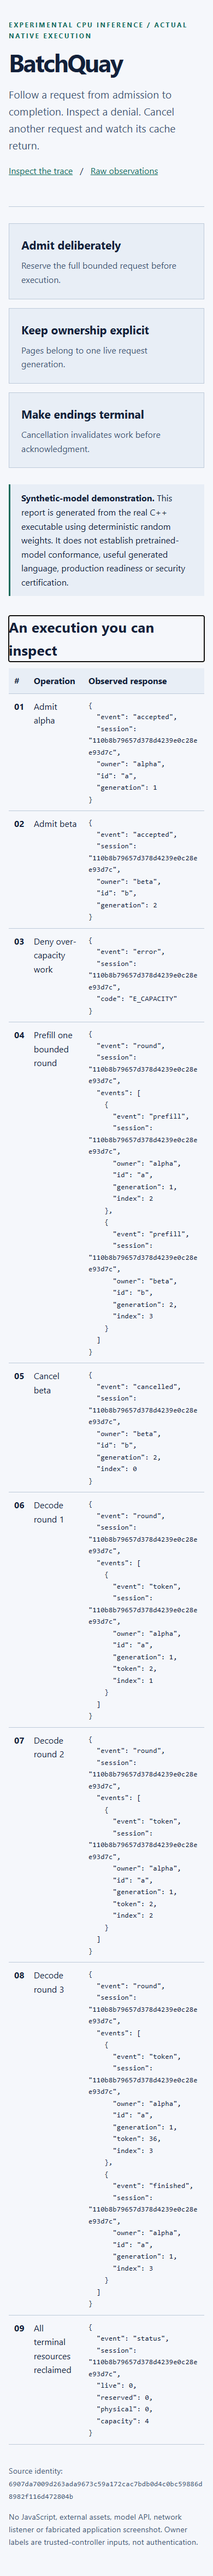
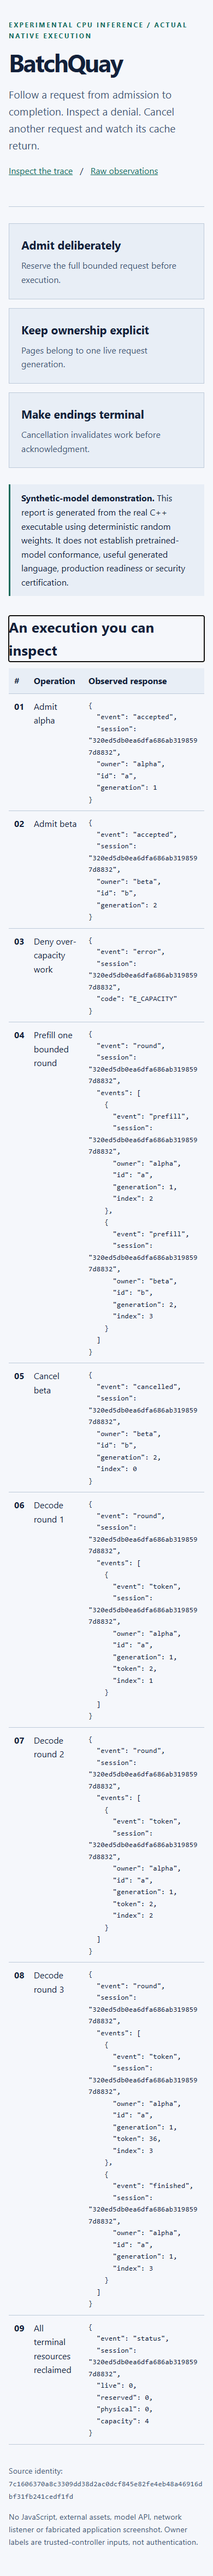
Correct operating prerequisites and current status navigation

Changed region(s): [[0.4923, 0.6871, 0.5231, 0.7183]]

diff --git a/docs/demo/report.html b/docs/demo/report.html
@@ -27,27 +27,27 @@ footer{margin-top:36px;color:var(--muted);font-size:.9rem}.skip{position:absolut
 <p class="notice"><strong>Synthetic-model demonstration.</strong> This report is generated from the real C++ executable using deterministic random weights. It does not establish pretrained-model conformance, useful generated language, production readiness or security certification.</p>
 <h2 id="trace" tabindex="-1">An execution you can inspect</h2><table><thead><tr><th scope="col">#</th><th scope="col">Operation</th><th scope="col">Observed response</th></tr></thead><tbody><tr><th scope="row">01</th><td>Admit alpha</td><td><pre>{
   &quot;event&quot;: &quot;accepted&quot;,
-  &quot;session&quot;: &quot;110b8b79657d378d4239e0c28ee93d7c&quot;,
+  &quot;session&quot;: &quot;320ed5db0ea6dfa686ab3198597d8832&quot;,
   &quot;owner&quot;: &quot;alpha&quot;,
   &quot;id&quot;: &quot;a&quot;,
   &quot;generation&quot;: 1
 }</pre></td></tr><tr><th scope="row">02</th><td>Admit beta</td><td><pre>{
   &quot;event&quot;: &quot;accepted&quot;,
-  &quot;session&quot;: &quot;110b8b79657d378d4239e0c28ee93d7c&quot;,
+  &quot;session&quot;: &quot;320ed5db0ea6dfa686ab3198597d8832&quot;,
   &quot;owner&quot;: &quot;beta&quot;,
   &quot;id&quot;: &quot;b&quot;,
   &quot;generation&quot;: 2
 }</pre></td></tr><tr><th scope="row">03</th><td>Deny over-capacity work</td><td><pre>{
   &quot;event&quot;: &quot;error&quot;,
-  &quot;session&quot;: &quot;110b8b79657d378d4239e0c28ee93d7c&quot;,
+  &quot;session&quot;: &quot;320ed5db0ea6dfa686ab3198597d8832&quot;,
   &quot;code&quot;: &quot;E_CAPACITY&quot;
 }</pre></td></tr><tr><th scope="row">04</th><td>Prefill one bounded round</td><td><pre>{
   &quot;event&quot;: &quot;round&quot;,
-  &quot;session&quot;: &quot;110b8b79657d378d4239e0c28ee93d7c&quot;,
+  &quot;session&quot;: &quot;320ed5db0ea6dfa686ab3198597d8832&quot;,
   &quot;events&quot;: [
     {
       &quot;event&quot;: &quot;prefill&quot;,
-      &quot;session&quot;: &quot;110b8b79657d378d4239e0c28ee93d7c&quot;,
+      &quot;session&quot;: &quot;320ed5db0ea6dfa686ab3198597d8832&quot;,
       &quot;owner&quot;: &quot;alpha&quot;,
       &quot;id&quot;: &quot;a&quot;,
       &quot;generation&quot;: 1,
@@ -55,7 +55,7 @@ footer{margin-top:36px;color:var(--muted);font-size:.9rem}.skip{position:absolut
     },
     {
       &quot;event&quot;: &quot;prefill&quot;,
-      &quot;session&quot;: &quot;110b8b79657d378d4239e0c28ee93d7c&quot;,
+      &quot;session&quot;: &quot;320ed5db0ea6dfa686ab3198597d8832&quot;,
       &quot;owner&quot;: &quot;beta&quot;,
       &quot;id&quot;: &quot;b&quot;,
       &quot;generation&quot;: 2,
@@ -64,18 +64,18 @@ footer{margin-top:36px;color:var(--muted);font-size:.9rem}.skip{position:absolut
   ]
 }</pre></td></tr><tr><th scope="row">05</th><td>Cancel beta</td><td><pre>{
   &quot;event&quot;: &quot;cancelled&quot;,
-  &quot;session&quot;: &quot;110b8b79657d378d4239e0c28ee93d7c&quot;,
+  &quot;session&quot;: &quot;320ed5db0ea6dfa686ab3198597d8832&quot;,
   &quot;owner&quot;: &quot;beta&quot;,
   &quot;id&quot;: &quot;b&quot;,
   &quot;generation&quot;: 2,
   &quot;index&quot;: 0
 }</pre></td></tr><tr><th scope="row">06</th><td>Decode round 1</td><td><pre>{
   &quot;event&quot;: &quot;round&quot;,
-  &quot;session&quot;: &quot;110b8b79657d378d4239e0c28ee93d7c&quot;,
+  &quot;session&quot;: &quot;320ed5db0ea6dfa686ab3198597d8832&quot;,
   &quot;events&quot;: [
     {
       &quot;event&quot;: &quot;token&quot;,
-      &quot;session&quot;: &quot;110b8b79657d378d4239e0c28ee93d7c&quot;,
+      &quot;session&quot;: &quot;320ed5db0ea6dfa686ab3198597d8832&quot;,
       &quot;owner&quot;: &quot;alpha&quot;,
       &quot;id&quot;: &quot;a&quot;,
       &quot;generation&quot;: 1,
@@ -85,11 +85,11 @@ footer{margin-top:36px;color:var(--muted);font-size:.9rem}.skip{position:absolut
   ]
 }</pre></td></tr><tr><th scope="row">07</th><td>Decode round 2</td><td><pre>{
   &quot;event&quot;: &quot;round&quot;,
-  &quot;session&quot;: &quot;110b8b79657d378d4239e0c28ee93d7c&quot;,
+  &quot;session&quot;: &quot;320ed5db0ea6dfa686ab3198597d8832&quot;,
   &quot;events&quot;: [
     {
       &quot;event&quot;: &quot;token&quot;,
-      &quot;session&quot;: &quot;110b8b79657d378d4239e0c28ee93d7c&quot;,
+      &quot;session&quot;: &quot;320ed5db0ea6dfa686ab3198597d8832&quot;,
       &quot;owner&quot;: &quot;alpha&quot;,
       &quot;id&quot;: &quot;a&quot;,
       &quot;generation&quot;: 1,
@@ -99,11 +99,11 @@ footer{margin-top:36px;color:var(--muted);font-size:.9rem}.skip{position:absolut
   ]
 }</pre></td></tr><tr><th scope="row">08</th><td>Decode round 3</td><td><pre>{
   &quot;event&quot;: &quot;round&quot;,
-  &quot;session&quot;: &quot;110b8b79657d378d4239e0c28ee93d7c&quot;,
+  &quot;session&quot;: &quot;320ed5db0ea6dfa686ab3198597d8832&quot;,
   &quot;events&quot;: [
     {
       &quot;event&quot;: &quot;token&quot;,
-      &quot;session&quot;: &quot;110b8b79657d378d4239e0c28ee93d7c&quot;,
+      &quot;session&quot;: &quot;320ed5db0ea6dfa686ab3198597d8832&quot;,
       &quot;owner&quot;: &quot;alpha&quot;,
       &quot;id&quot;: &quot;a&quot;,
       &quot;generation&quot;: 1,
@@ -112,7 +112,7 @@ footer{margin-top:36px;color:var(--muted);font-size:.9rem}.skip{position:absolut
     },
     {
       &quot;event&quot;: &quot;finished&quot;,
-      &quot;session&quot;: &quot;110b8b79657d378d4239e0c28ee93d7c&quot;,
+      &quot;session&quot;: &quot;320ed5db0ea6dfa686ab3198597d8832&quot;,
       &quot;owner&quot;: &quot;alpha&quot;,
       &quot;id&quot;: &quot;a&quot;,
       &quot;generation&quot;: 1,
@@ -121,10 +121,10 @@ footer{margin-top:36px;color:var(--muted);font-size:.9rem}.skip{position:absolut
   ]
 }</pre></td></tr><tr><th scope="row">09</th><td>All terminal resources reclaimed</td><td><pre>{
   &quot;event&quot;: &quot;status&quot;,
-  &quot;session&quot;: &quot;110b8b79657d378d4239e0c28ee93d7c&quot;,
+  &quot;session&quot;: &quot;320ed5db0ea6dfa686ab3198597d8832&quot;,
   &quot;live&quot;: 0,
   &quot;reserved&quot;: 0,
   &quot;physical&quot;: 0,
   &quot;capacity&quot;: 4
 }</pre></td></tr></tbody></table><footer>
-<p>Source identity: <code>6907da7009d263ada9673c59a172cac7bdb0d4c0bc59886d8982f116d472804b</code></p><p>No JavaScript, external assets, model API, network listener or fabricated application screenshot. Owner labels are trusted-controller inputs, not authentication.</p></footer></main></body></html>
+<p>Source identity: <code>7c1606370a8c3309dd38d2ac0dcf845e82fe4eb48a46916dbf31fb241cedf1fd</code></p><p>No JavaScript, external assets, model API, network listener or fabricated application screenshot. Owner labels are trusted-controller inputs, not authentication.</p></footer></main></body></html>

diff --git a/OPERATIONS.md b/OPERATIONS.md
@@ -1,6 +1,6 @@
 # Deployment and operations
 ## Supported baseline
-One trusted Linux x86-64 host with C++20 compiler, CMake >=3.25, Ninja or Make, Python >=3.11. Core tiny fixture generation uses Python standard library; differential tests additionally need NumPy. Current NumPy 2.5 series requires Python >=3.12; Python 3.11 uses a supported compatible NumPy pin. Exact executed environment is in verification receipts, not inferred from recommendations. No runtime service dependencies, credentials or GPU.
+One trusted Linux x86-64 host with C++20 compiler, GNU Make, CMake >=3.25, Ninja and Python >=3.11. Core tiny fixture generation uses Python standard library; differential tests additionally need NumPy. Current NumPy 2.5 series requires Python >=3.12; Python 3.11 uses a supported compatible NumPy pin. Exact executed environment is in verification receipts, not inferred from recommendations. No runtime service dependencies, credentials or GPU.
 
 ```sh
 make bootstrap
@@ -15,10 +15,10 @@ make benchmark
 make verify
 make clean-verify
 ```
-`make format` applies available clang-format; `make fmt` checks formatting. `make lint` uses strict compilation and compiler diagnostics, plus a separately available static analyzer; any unavailable requested analyzer is BLOCKED, not silently skipped. `make typecheck` is C++ compilation plus Python syntax checking; it is not a claim of Python static type proof. `make security` runs local input/privacy/integrity checks; `make security-online` additionally needs network-capable dependency/scanner tooling. `make real-model` requires the pinned downloadable checkpoint and independent reference dependencies. Refer to Makefile for exact implemented commands and limitations. `make clean` removes only generated owned build directories, never user data.
+`make format` applies available clang-format; `make fmt` checks formatting. `make lint` uses strict compilation and compiler diagnostics, plus a separately available static analyzer; any unavailable requested analyzer is BLOCKED, not silently skipped. `make typecheck` is C++ compilation plus Python syntax checking; it is not a claim of Python static type proof. `make security` runs local input/privacy/integrity checks; `make security-online` additionally needs network-capable dependency/scanner tooling. `make real-model` requires the pinned downloadable checkpoint and independent reference dependencies. Refer to Makefile for exact implemented commands and limitations.
 
 ## Demo and deployment topology
-Run `make demo` locally; inspect the generated static HTML report offline. The main credible hosted demonstration is this reviewed static report plus source, CI and evidence, hosted on public GitHub Pages. It has no live inference endpoint and must not pretend otherwise. Optional trusted-operator CPU VM uses an unprivileged account, read-only source/model, writable owned run directory, no exposed port, cgroup memory/CPU limits, and an SSH-controlled CLI. Containers/VM images are not required for the core; never introduce Kubernetes just to label this infrastructure.
+Run `make demo` locally; inspect the generated static HTML report offline. The reviewed static report can optionally be published on GitHub Pages; no Pages deployment exists. It has no live inference endpoint and must not pretend otherwise. Optional trusted-operator CPU VM uses an unprivileged account, read-only source/model, writable owned run directory, no exposed port, cgroup memory/CPU limits, and an SSH-controlled CLI. Containers/VM images are not required for the core; never introduce Kubernetes just to label this infrastructure.
 
 ## Operations
 Startup validates config/model fully before accepting requests. Failure is fail-closed with nonzero setup exit. stdout backpressure blocks progress instead of buffering unbounded token queues. Shutdown discards in-memory requests; the controller must record interruption and resubmit deliberately with a new session. No transparent retry of generation: duplicates can produce multiple independently billed/observed outputs in a future adapter. One operator owns model and configuration. No database, schema migrations or durable user state. Preserve only model input hashes and allowlisted synthetic receipts for reproduction.

diff --git a/README.md b/README.md
@@ -17,7 +17,7 @@ Can a small inference engine preserve numerical behavior while it interleaves re
 The runtime uses FP32 storage/activations and FP64 reductions. The independent Python oracle recomputes complete prefixes with dense NumPy operations. This is neither a wrapper around a hosted model nor a replacement for llama.cpp, vLLM or SGLang.
 
 ## Run locally
-Linux or Windows with GCC, CMake, Ninja, Python 3.12 and Git are supported verification hosts. The fixture and demo use the Python standard library. NumPy is needed for differential verification; Clang sanitizer campaigns require Linux.
+Linux or Windows with GCC, GNU Make, CMake, Ninja, Python 3.12 and Git are supported verification hosts. The fixture and demo use the Python standard library. NumPy is needed for differential verification; Clang sanitizer campaigns require Linux.
 
 ```sh
 make bootstrap       # Inspect prerequisites; does not install or alter the host.

diff --git a/ARCHITECTURE.md b/ARCHITECTURE.md
@@ -1,6 +1,6 @@
 # Architecture
 
-This document specifies the complete target; IMPLEMENTATION_STATUS.md distinguishes implemented kernel from pending runtime work. An implementation diagram is not evidence of completion.
+This document specifies the complete target; current implementation and verification status is recorded in [verification/criterion_status.json](verification/criterion_status.json). An implementation diagram is not evidence of completion.
 
 ## Context and component ownership
 ```mermaid
